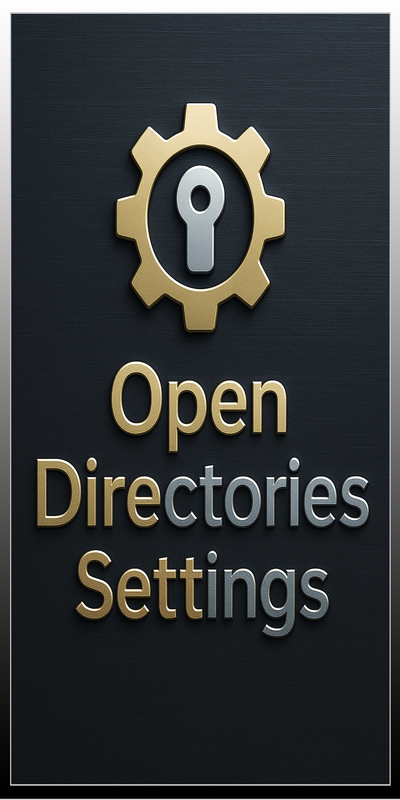
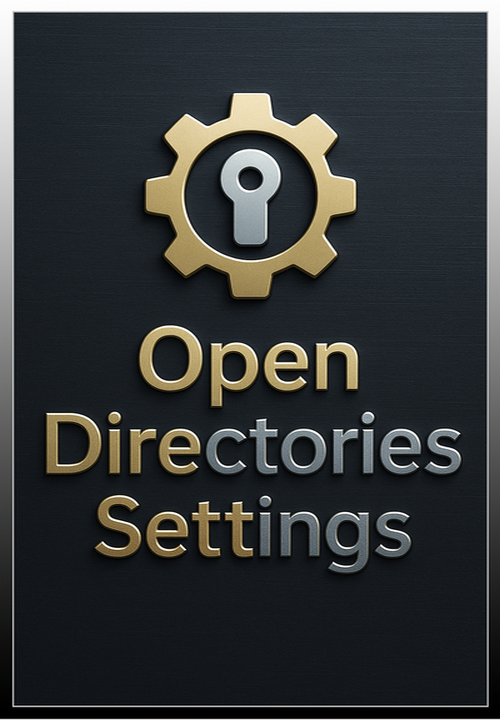
Update 1.5

Changed region(s): [[0.0, 0.6417, 0.03, 0.9778]]

diff --git a/usr/lib/enigma2/python/Plugins/Extensions/CiefpOpenDirectories/plugin.py b/usr/lib/enigma2/python/Plugins/Extensions/CiefpOpenDirectories/plugin.py
@@ -11,6 +11,7 @@ from Components.Label import Label
 from Components.ConfigList import ConfigListScreen
 from Components.ProgressBar import ProgressBar  # <-- DODATO!
 from Components.config import config, ConfigSubsection, ConfigText, ConfigYesNo, ConfigSelection, configfile
+from Components.Pixmap import Pixmap
 from enigma import eDVBDB, eTimer, eConsoleAppContainer
 from skin import parseColor
 import re
@@ -23,7 +24,7 @@ import ssl
 ssl._create_default_https_context = ssl._create_unverified_context
 
 # === KONFIGURACIJA ===
-PLUGIN_VERSION = "1.4"
+PLUGIN_VERSION = "1.5"
[1 lines of base64/hex data omitted]
 TMP_PATH = "/tmp/CiefpOpenDirectories/"
 OPENDIRECTORIES_FILE = PLUGIN_PATH + "opendirectories.txt"
@@ -60,28 +61,40 @@ UPDATE_COMMAND = "wget -q --no-check-certificate https://raw.githubusercontent.c
 # =================================== MAIN SCREEN ===================================
 class MainScreen(Screen):
     skin = """
-    <screen name="MainScreen" position="center,center" size="1800,900" title="..:: CiefpOpenDirectories v{} - Main Menu ::..">
-        <widget name="list" position="0,0" size="1400,800" scrollbarMode="showOnDemand" itemHeight="33" font="Regular;28"  />
-        <widget name="status_label" position="1550,820" size="200,40" font="Regular;26" halign="left" valign="center" foregroundColor="#00ff00" backgroundColor="#10000000" transparent="1" />
-        <ePixmap pixmap="{}background.png" position="1400,0" size="400,800" alphatest="on" />
-        <!-- Dugmad -->
-        <ePixmap pixmap="buttons/red.png" position="50,830" size="35,35" alphatest="blend" />
-        <eLabel text="Exit" position="100,820" size="200,50" font="Regular;28" foregroundColor="white" backgroundColor="#800000" halign="center" valign="center" transparent="0" />
-        <ePixmap pixmap="buttons/green.png" position="350,830" size="35,35" alphatest="blend" />
-        <eLabel text="Add URL" position="400,820" size="200,50" font="Regular;28" foregroundColor="white" backgroundColor="#008000" halign="center" valign="center" transparent="0" />
-        <ePixmap pixmap="buttons/yellow.png" position="650,830" size="35,35" alphatest="blend" />
-        <eLabel text="Settings" position="700,820" size="200,50" font="Regular;28" foregroundColor="white" backgroundColor="#808000" halign="center" valign="center" transparent="0" />
-        <ePixmap pixmap="buttons/blue.png" position="950,830" size="35,35" alphatest="blend" />
-        <eLabel text="Scrape" position="1000,820" size="200,50" font="Regular;28" foregroundColor="white" backgroundColor="#000080" halign="center" valign="center" transparent="0" />
-        <ePixmap pixmap="buttons/green.png" position="1250,830" size="35,35" alphatest="blend" />
-        <eLabel text="MENU: More" position="1300,820" size="200,50" font="Regular;24" foregroundColor="white" backgroundColor="#023030" halign="center" valign="center" transparent="0"/>
-    </screen>""".format(PLUGIN_VERSION, PLUGIN_PATH)
+    <screen name="MainScreen" position="center,center" size="1920,1080" backgroundColor="#011a2e" >
+        <widget name="plugin_title" position="0,10" size="1920,50" font="Bold;34" halign="center" backgroundColor="#012e01" foregroundColor="#00FF00" text="..:: CiefpOpenDirectories ::.." />
+
+        <widget name="list" position="20,80" size="1480,840" scrollbarMode="showAlways" itemHeight="35" font="Regular;28" backgroundColor="#011a2e" foregroundColor="#FFFFFF" selectionBackgroundColor="#1a4a7a" />
+
+        <widget name="status_label" position="20,940" size="500,55" font="Regular;26" halign="left" valign="center" foregroundColor="#FFD700" backgroundColor="#011a2e" text="Status: Ready" />
+
+        <widget name="background" pixmap="/usr/lib/enigma2/python/Plugins/Extensions/CiefpOpenDirectories/background.png" position="1500,80" size="400,840" zPosition="-1" alphatest="on" />
+
+        <!-- Ciefp stil dugmad -->
+        <widget name="button_red" position="20,985" size="250,50" font="Bold;32" halign="center" backgroundColor="#9F1313" foregroundColor="#FFFFFF" text="Exit" />
+        <widget name="button_green" position="290,985" size="250,50" font="Bold;32" halign="center" backgroundColor="#1F771F" foregroundColor="#FFFFFF" text="Add URL" />
+        <widget name="button_yellow" position="560,985" size="250,50" font="Bold;32" halign="center" backgroundColor="#9F9F13" foregroundColor="#000000" text="Settings" />
+        <widget name="button_blue" position="830,985" size="250,50" font="Bold;32" halign="center" backgroundColor="#132B9F" foregroundColor="#FFFFFF" text="Scrape" />
+
+        <widget name="version_info" position="1100,985" size="800,50" font="Regular;26" foregroundColor="#00BFFF" backgroundColor="#011a2e" halign="right" text="Version: {version}" />
+    </screen>
+    """.format(version=PLUGIN_VERSION)
 
     def __init__(self, session):
         Screen.__init__(self, session)
         self["list"] = MenuList([], enableWrapAround=True)
         self["list"].selectionEnabled(1)
-        self["status_label"] = Label("")
+        self["background"] = Pixmap()
+        self["status_label"] = Label("Status: Ready")
+        self["plugin_title"] = Label("..:: CiefpOpenDirectories ::..")
+
+        # Dugmad
+        self["button_red"] = Label("Exit")
+        self["button_green"] = Label("Add URL")
+        self["button_yellow"] = Label("Settings")
+        self["button_blue"] = Label("Scrape")
+        self["version_info"] = Label("Version: " + PLUGIN_VERSION)
+
         self["actions"] = ActionMap(["OkCancelActions", "ColorActions", "MenuActions"],
                                     {"ok": self.openContent, "cancel": self.exit,
                                      "red": self.exit, "green": self.addUrl,
@@ -308,17 +321,21 @@ class MainScreen(Screen):
 # =================================== SETTINGS ===================================
 class SettingsScreen(ConfigListScreen, Screen):
     skin = """
-    <screen position="center,center" size="1200,800" title="..:: CiefpOpenDirectories - Settings ::..">
-        <widget name="config" position="20,20" size="750,650" itemHeight="33" font="Regular;28"  scrollbarMode="showOnDemand" />
-        <ePixmap pixmap="/usr/lib/enigma2/python/Plugins/Extensions/CiefpOpenDirectories/settings.png" position="800,0" size="400,800" alphatest="on" />
-        <ePixmap pixmap="buttons/red.png" position="50,720" size="35,35" alphatest="blend" />
-        <eLabel text="Exit" position="100,710" size="200,50" font="Regular;28" foregroundColor="white" backgroundColor="#800000" halign="center" valign="center" transparent="0" />
-        <ePixmap pixmap="buttons/green.png" position="500,720" size="35,35" alphatest="blend" />
-        <eLabel text="Save" position="550,710" size="200,50" font="Regular;28" foregroundColor="white" backgroundColor="#008000" halign="center" valign="center" transparent="0" />
+    <screen position="center,center" size="1920,1080"  title="..:: SettingsScreen ::.." backgroundColor="#011a2e">
+        <widget name="title" render="Label" position="100,80" size="1600,60" font="Regular;34" halign="center" valign="center" foregroundColor="#00FF00" text="..:: CiefpOpenDirectories Settings ::.." backgroundColor="#050505" zPosition="3" />
+        <widget name="config" position="100,150" size="1100,720" scrollbarMode="showOnDemand" itemHeight="36" font="Regular;26"  backgroundColor="#012e01" />
+        <ePixmap pixmap="/usr/lib/enigma2/python/Plugins/Extensions/CiefpOpenDirectories/settings.png" position="1200,150" size="500,720" alphatest="on" />
+        <widget name="title2" render="Label" position="100,870" size="1600,80" font="Regular;34" halign="center" valign="center" foregroundColor="#ffffff" backgroundColor="#050505" zPosition="2" />
+        <ePixmap pixmap="buttons/red.png" position="150,900" size="35,35" alphatest="blend" zPosition="2" />
+        <eLabel text="Exit" position="200,890" size="200,50" font="Regular;28" foregroundColor="white" backgroundColor="#800000" halign="center" valign="center" zPosition="2" />
+        <ePixmap pixmap="buttons/green.png" position="600,900" size="35,35" alphatest="blend" zPosition="2" />
+        <eLabel text="Save" position="650,890" size="200,50" font="Regular;28" foregroundColor="white" backgroundColor="#008000" halign="center" valign="center" zPosition="2" />
     </screen>"""
 
     def __init__(self, session):
         Screen.__init__(self, session)
+        self["title"] = Label("..:: CiefpOpenDirectories Settings ::..")
+        self["title2"] = Label("")
         list = []
         list.append(("Default Playlist Name", config.ciefp.default_name))
         list.append(("Include Date in Filename", config.ciefp.include_date))
@@ -714,24 +731,30 @@ class ScrapeScreen(Screen):
         else:
             self.close()
 
+
 # =================================== CONTENT SCREEN (v1.1) ===================================
 
 class ContentScreen(Screen):
     skin = """
-    <screen name="ContentScreen" position="center,center" size="1800,800" title="..:: Directory Content v{} - Second Screen ::..">
-        <widget name="content_list" position="0,0" size="700,700" itemHeight="33" font="Regular;28"  scrollbarMode="showOnDemand" />
-        <widget name="selected_list" position="750,0" size="650,700" font="Regular;20" scrollbarMode="showOnDemand" />
-        <ePixmap pixmap="{}background.png" position="1400,0" size="400,800" alphatest="on" />
-        <!-- Dugmad -->
-        <ePixmap pixmap="buttons/red.png" position="50,720" size="35,35" alphatest="blend" />
-        <eLabel text="Back" position="100,710" size="180,50" font="Regular;28" foregroundColor="white" backgroundColor="#800000" halign="center" valign="center" transparent="0" />
-        <ePixmap pixmap="buttons/green.png" position="320,720" size="35,35" alphatest="blend" />
-        <eLabel text="Select/Scrape" position="370,710" size="180,50" font="Regular;28" foregroundColor="white" backgroundColor="#008000" halign="center" valign="center" transparent="0" />
-        <ePixmap pixmap="buttons/yellow.png" position="590,720" size="35,35" alphatest="blend" />
-        <eLabel text="Create" position="640,710" size="180,50" font="Regular;28" foregroundColor="white" backgroundColor="#808000" halign="center" valign="center" transparent="0" />
-        <ePixmap pixmap="buttons/blue.png" position="860,720" size="35,35" alphatest="blend" />
-        <eLabel text="All" position="910,710" size="180,50" font="Regular;28" foregroundColor="white" backgroundColor="#000080" halign="center" valign="center" transparent="0" />
-    </screen>""".format(PLUGIN_VERSION, PLUGIN_PATH)
+    <screen name="ContentScreen" position="center,center" size="1920,1080" title="..:: Directory Content ::.." backgroundColor="#011a2e">
+        <widget name="plugin_title" position="0,10" size="1920,50" font="Bold;34" halign="center" backgroundColor="#012e01" foregroundColor="#00FF00" text="..:: Directory Content ::.." />
+
+        <widget name="content_list" position="20,80" size="740,840" itemHeight="42" font="Regular;32" backgroundColor="#011a2e" foregroundColor="#FFFFFF" selectionBackgroundColor="#1a4a7a" scrollbarMode="showAlways" />
+
+        <widget name="selected_list" position="780,80" size="740,840" font="Regular;28" foregroundColor="#FFD700" backgroundColor="#011a2e" scrollbarMode="showAlways" />
+
+        <widget name="background" pixmap="/usr/lib/enigma2/python/Plugins/Extensions/CiefpOpenDirectories/background.png" position="1520,80" size="400,840" zPosition="-1" alphatest="on" />
+
+        <widget name="status_label" position="20,940" size="1000,55" font="Regular;26" backgroundColor="#011a2e" foregroundColor="#FFD700" text="Status: Ready" />
+
+        <!-- Ciefp stil dugmad -->
+        <widget name="button_red" position="20,985" size="250,50" font="Bold;32" halign="center" backgroundColor="#9F1313" foregroundColor="#FFFFFF" text="Back" />
+        <widget name="button_green" position="290,985" size="250,50" font="Bold;32" halign="center" backgroundColor="#1F771F" foregroundColor="#FFFFFF" text="Select/Scrape" />
+        <widget name="button_yellow" position="560,985" size="250,50" font="Bold;32" halign="center" backgroundColor="#9F9F13" foregroundColor="#000000" text="Create" />
+        <widget name="button_blue" position="830,985" size="250,50" font="Bold;32" halign="center" backgroundColor="#132B9F" foregroundColor="#FFFFFF" text="All" />
+
+        <widget name="version_info" position="1100,985" size="800,50" font="Regular;26" foregroundColor="#00BFFF" backgroundColor="#011a2e" halign="right" text="Version: {version}" />
+    </screen>""".format(version=PLUGIN_VERSION)
 
     def __init__(self, session, base_url, mode="normal"):
         Screen.__init__(self, session)
@@ -743,9 +766,19 @@ class ContentScreen(Screen):
         self.load_error = None
         self.mode = mode  # "normal" ili "scrape"
 
+        self["plugin_title"] = Label("..:: Directory Content ::..")
         self["content_list"] = MenuList([], enableWrapAround=True)
         self["content_list"].selectionEnabled(1)
         self["selected_list"] = ScrollLabel("")
+        self["background"] = Pixmap()
+        self["status_label"] = Label("Status: Ready")
+
+        # Dugmad
+        self["button_red"] = Label("Back")
+        self["button_green"] = Label("Select/Scrape")
+        self["button_yellow"] = Label("Create")
+        self["button_blue"] = Label("All")
+        self["version_info"] = Label("Version: " + PLUGIN_VERSION)
 
         # Promenjeno: Dodata opcija za scrape u zavisnosti od moda
         if self.mode == "scrape":